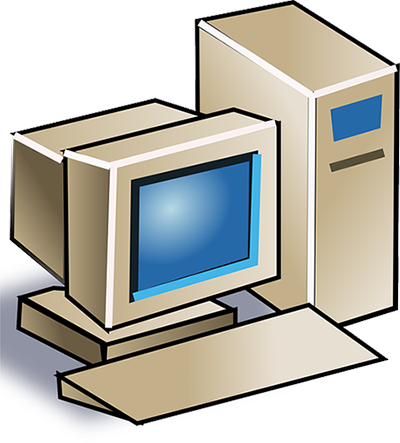
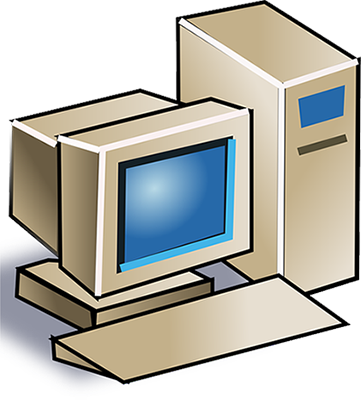
minor changes for better looks

diff --git a/index.html b/index.html
@@ -25,25 +25,25 @@
   <main>
     <h2>The first popular micro computer</h2>
     <section>
-      <h3>a computer with a CPU</h3>
+      <h3>a computer with a <abbr title="Central Processing Unit"> CPU</abbr></h3>
       <p>A micro computer is defined as a computer with a single central processing unit (CPU) as a microprocessor.</p>
-      <p>Featured on the cover of the magazine Popular Electronics in January 1975 was the MITS Altair 8800 and this started the new era of the micro computer. Limited as it were, it was still widely popular - though mainly amongst geeks. The MITS could be purchased as a DIY project, and when is was assembled it had eight switches that could be used to program it. Each switch represented one bit in the memory register and instructions were made one byte at a time. </p>
+      <p>Featured on the cover of the magazine Popular Electronics in January 1975 was the <abbr title="Micro Instrumentation and Telemetry Systems">MITS</abbr> Altair 8800 and this started the new era of the micro computer. Limited as it were, it was still widely popular - though mainly amongst geeks. The <abbr title="Micro Instrumentation and Telemetry Systems">MITS</abbr>  could be purchased as a <abbr title="Do It Yourself">DIY</abbr> project, and when is was assembled it had eight switches that could be used to program it. Each switch represented one bit in the memory register and instructions were made one byte at a time. </p>
       <p><span>Note:</span> The word “geek” originally (in the 16th century) meant a freak (from Dutch “gek” or Low German “geck”), but from 1983 it has been recorded in teenage slang as referring to peers with few social skills but a keen interest in new technology.</p>
       <p>As the micro computers developed and became more advanced, they would have more memory and a build in keyboard. They would also come with some sort of text based interface – typically a specific flavour of a programming language like Basic or something similar. </p>
     </section>
     <section>
       <h3>ZX81, ZX Spectrum</h3>
-      <p>One of the most well known micro computers was the <strong>ZX81,</strong> which came out in 1981. This computer had a wide appeal even though it had no more than 1 Kb of RAM. Later extension modules became available, so that you could upgrade to either 16 or 64 Kb. With so much RAM you could type in 64.000 characters of computer code.</p>
+      <p>One of the most well known micro computers was the <strong>ZX81,</strong> which came out in 1981. This computer had a wide appeal even though it had no more than 1 Kb of <abbr title="Random Access Memory">RAM</abbr>. Later extension modules became available, so that you could upgrade to either 16 or 64 Kb. With so much RAM you could type in 64.000 characters of computer code.</p>
       <p>The ZX81 was followed by the <strong>ZX Spectrum</strong> in 1982. This one came with 16 Kb but could be upgraded to 128 Kb. In order to use it, one would have to connect it to a television set and the resolution you’d see would be 256 x 192 pixels which equals to 32 characters across in 24 lines.</p>
       <p>The computer was able to show 8 colours and play five octaves of sound in mono.</p>
-      <p>Within the next couple of years a myriad of micro computers hit the marked. They were now becoming known as home computers and they include machines from well known brands like Acorn, Amstrad, Atari, Commodore, Texas and Sinclair. Two brands ended up stealing the scene - and the market: IBM and Apple. </p>
+      <p>Within the next couple of years a myriad of micro computers hit the marked. They were now becoming known as home computers and they include machines from well known brands like Acorn, Amstrad, Atari, Commodore, Texas and Sinclair. Two brands ended up stealing the scene - and the market: <abbr title="International Business Machines">IBM</abbr> and Apple. </p>
     </section>
   </main>
   <aside>
-    <p><b>The first computers made were big.</b> Room size big.They were also very expensive and pretty slow and you had to be a specialist to program them. So the president of IBM, Thomas Watson, can be forgiven for his infamous quote from 1943: <q>I think there is a world market for maybe five computers.</q></p>
+    <p><b>The first computers made were big.</b> Room size big.They were also very expensive and pretty slow and you had to be a specialist to program them. So the president of <abbr title="International Business Machines">IBM</abbr>, Thomas Watson, can be forgiven for his infamous quote from 1943: <q>I think there is a world market for maybe five computers.</q></p>
   </aside>
   <footer>
-    <p>This website was made as a study project at KEA, Multimedia Design, 2020.</p>
+    <p>This website was made as a study project at KEA, Multimedia Design Program, 2020.</p>
   </footer>
 </body>
 </html>

diff --git a/usage.html b/usage.html
@@ -22,7 +22,7 @@
     <h2>How to use a micro computer</h2>
     <section>
       <h3>The Multimedia Race</h3>
-      <p>The most successful micro computer by far was the <strong>Commodore 64.</strong> It had an 8 bit micro processer with a clock frequency at just about 1 megahertz and 64 Kb of RAM. The really extraordinary thing about the C64 though was it’s extra graphics chip which was able to show 16 colours, 8 sprites, had scrolling capabilities and a resolution of 320x200 pixels (40x25 characters) and it’s sound chip that could play 8 octaves of sound in 3 channels. The multimedia race had begun (although no one used that word yet).</p>
+      <p>The most successful micro computer by far was the <strong>Commodore 64.</strong> It had an 8 bit micro processer with a clock frequency at just about 1 megahertz and 64 Kb of <abbr title="Random Access Memory">RAM</abbr>. The really extraordinary thing about the C64 though was it’s extra graphics chip which was able to show 16 colours, 8 sprites, had scrolling capabilities and a resolution of 320x200 pixels (40x25 characters) and it’s sound chip that could play 8 octaves of sound in 3 channels. The multimedia race had begun (although no one used that word yet).</p>
       <figure>
         <img src="images/commodore64.jpg" alt="Commodore 64 with a monitor">
         <figcaption>The Commodore 64 Micro Computer</figcaption>
@@ -32,7 +32,7 @@
       <h3>A Keyboard With The Computer Inside</h3>
       <div>
         <p>The C64 was a keyboard with the computer inside, like most other home computers. It did have several connections on the back through witch you could connect other types of hardware like joysticks, midi instruments an external storage device and a television set.</p>
-        <p>The C64 was a plug-and-play (no one used that word either). When you turned it on, the curser was immediately blinking ready to take commands. The interface was text based and the programming language was Commodore Basic. Anything you wrote would be executed straight away unless you put it into a program. You created programs by adding line numbers in front of your command. This program was written line by line (not necessarily in the right order) and stored in the computers RAM. If you turned the computer off, your work would be lost unless you had stored it on an external storage device.</p>
+        <p>The C64 was a plug-and-play (no one used that word either). When you turned it on, the curser was immediately blinking ready to take commands. The interface was text based and the programming language was Commodore Basic. Anything you wrote would be executed straight away unless you put it into a program. You created programs by adding line numbers in front of your command. This program was written line by line (not necessarily in the right order) and stored in the computers <abbr title="Random Access Memory">RAM</abbr>. If you turned the computer off, your work would be lost unless you had stored it on an external storage device.</p>
         <p>When the program was ready you could run it by typing the command RUN followed by tapping the Return key. </p>
         <p>Disk drives were for the most part too expensive and a special cassette drive were used as a data storage device. </p>
       </div>
@@ -52,7 +52,7 @@
     </section>
   </main>
   <footer>
-    <p>This website was made as a study project at KEA, Multimedia Design, 2020.</p>
+    <p>This website was made as a study project at KEA, Multimedia Design Program, 2020.</p>
   </footer>
 </body>
 </html>

diff --git a/software.html b/software.html
@@ -27,10 +27,10 @@
     </section>
     <section>
       <h3>The software operating system</h3>
-      <p>A contester to the micro computer was IBM’s so-called Personal Computer or PC although is was much pricier and did not find it’s way into normal homes straight away. was a much  began to change as the new IBM PC (PC for Personal Computer) entered the market. The IBM PC used a software operating system. This had to load on startup, but made it easier to update - simply because you did not need to buy a completely new piece of hardware. The OS (for Operating System) was called MSDOS, this was short for Micro-Soft Disk Operating System (yes, they used a dash in their name in the early days). The code was based on the UNIX operating system although greatly simplified.</p>
+      <p>A contester to the micro computer was <abbr title="International Business Machines">IBM</abbr>’s so-called Personal Computer or PC although is was much pricier and did not find it’s way into normal homes straight away. was a much  began to change as the new IBM PC (PC for Personal Computer) entered the market. The <abbr title="International Business Machines">IBM</abbr> PC used a software operating system. This had to load on startup, but made it easier to update - simply because you did not need to buy a completely new piece of hardware. The OS (for Operating System) was called MSDOS, this was short for Micro-Soft Disk Operating System (yes, they used a dash in their name in the early days). The code was based on the UNIX operating system although greatly simplified.</p>
       <figure>
-        <img src="images/msdos.jpg" alt="Screenshot of MS DOS OS">
-        <figcaption>MS DOS Operating System</figcaption>
+        <img src="images/msdos.jpg" alt="Screenshot of MSDOS OS">
+        <figcaption>MSDOS Operating System</figcaption>
       </figure>
     </section>
     <section>
@@ -44,7 +44,7 @@
   </main>
 
   <footer>
-    <p>This website was made as a study project at KEA, Multimedia Design, 2020.</p>
+    <p>This website was made as a study project at KEA, Multimedia Design Program, 2020.</p>
   </footer>
 </body>
 </html>

diff --git a/my_first_computer.html b/my_first_computer.html
@@ -54,7 +54,7 @@
     </section>
   </main>
   <footer>
-    <p>This website was made as a study project at KEA, Multimedia Design, 2020.</p>
+    <p>This website was made as a study project at KEA, Multimedia Design Program, 2020.</p>
   </footer>
 </body>
 </html>

diff --git a/css/software.css b/css/software.css
@@ -83,7 +83,7 @@ footer {
 main {
   display: grid;
   grid-column-gap: 4em;
-  grid-template-columns: 1fr 1.8fr 1.5fr; 
+  grid-template-columns: 1.3fr 1.6fr 1.5fr; 
   grid-template-rows: min-content min-content min-content min-content; 
 }
 
